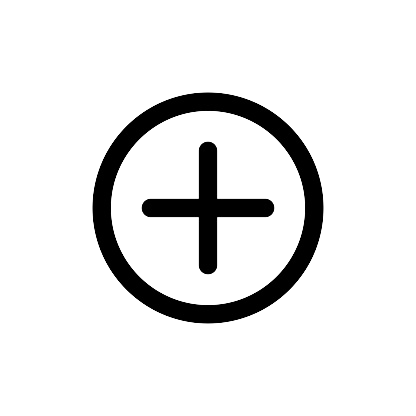
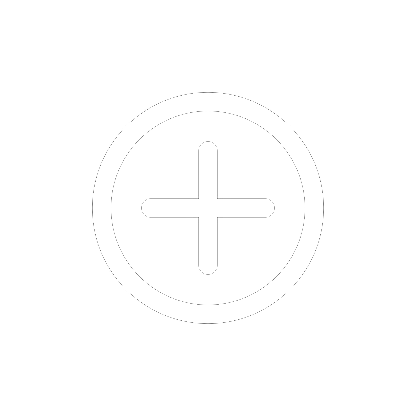
Aktualizazioa

Changed region(s): [[0.2188, 0.2188, 0.7812, 0.7812], [0.3438, 0.3438, 0.6562, 0.6562]]

diff --git a/resources/js/Pages/Mainfolder/DendaProduktuak.jsx b/resources/js/Pages/Mainfolder/DendaProduktuak.jsx
@@ -20,7 +20,7 @@ const DendaProduktuak = ({ productos, searchTerm }) => {
             <div className='denboraldikoak d-flex'>
   {filteredProductos.slice(4, 8).map((producto, index) => (
                 <div key={index} className='denbpro'>
-                    <img src={producto.image} width='400px' height='80%' />
+                    <img src={producto.image} width='400px' height='45%' />
                     <p className="izena">{producto.name}</p>
                     <p><b>{producto.price}€</b></p>
                 </div>

diff --git a/resources/js/Components/konponenteak/Denda.jsx b/resources/js/Components/konponenteak/Denda.jsx
@@ -83,7 +83,7 @@ export const Denda = ({ productos }) =>{
     <div className="button-container">
         
         <button className="toggle-mode-button">
-          <a href="/gehitu"><img src={plus} width={40} height={40} alt="" /><b>IGO PRODUKTUA</b></a>
+          <a href="/gehitu" className='text-white'><img src={plus} width={40} height={40} alt="" /><b>IGO PRODUKTUA</b></a>
         </button>
         </div>
         <FooterL />

diff --git a/resources/js/Components/style/tasazioa.css b/resources/js/Components/style/tasazioa.css
@@ -56,7 +56,7 @@ body{
   }
 
   .toggle-mode-button {
-    background-color: #ffffff;
+    background-color: #000000;
     color: #fff;
     padding: 10px 20px;
     border: none;

diff --git a/resources/js/Components/style/denda.css b/resources/js/Components/style/denda.css
@@ -14,6 +14,9 @@ body{
     margin-right: 10%;
 
 }
+.izena{
+    font-size: 25px;
+}
 .head ul li{
     list-style: none;
 }
